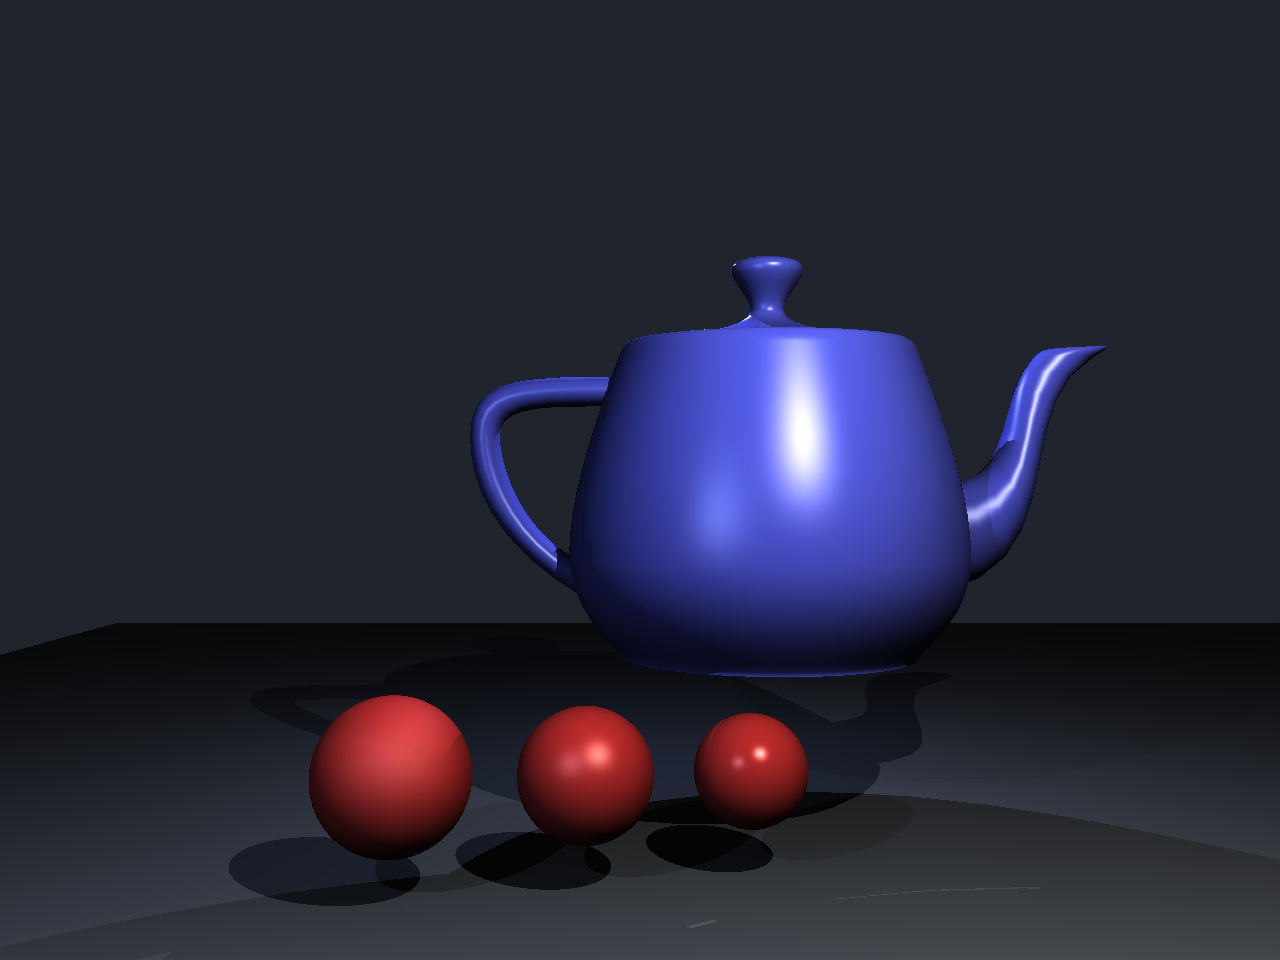
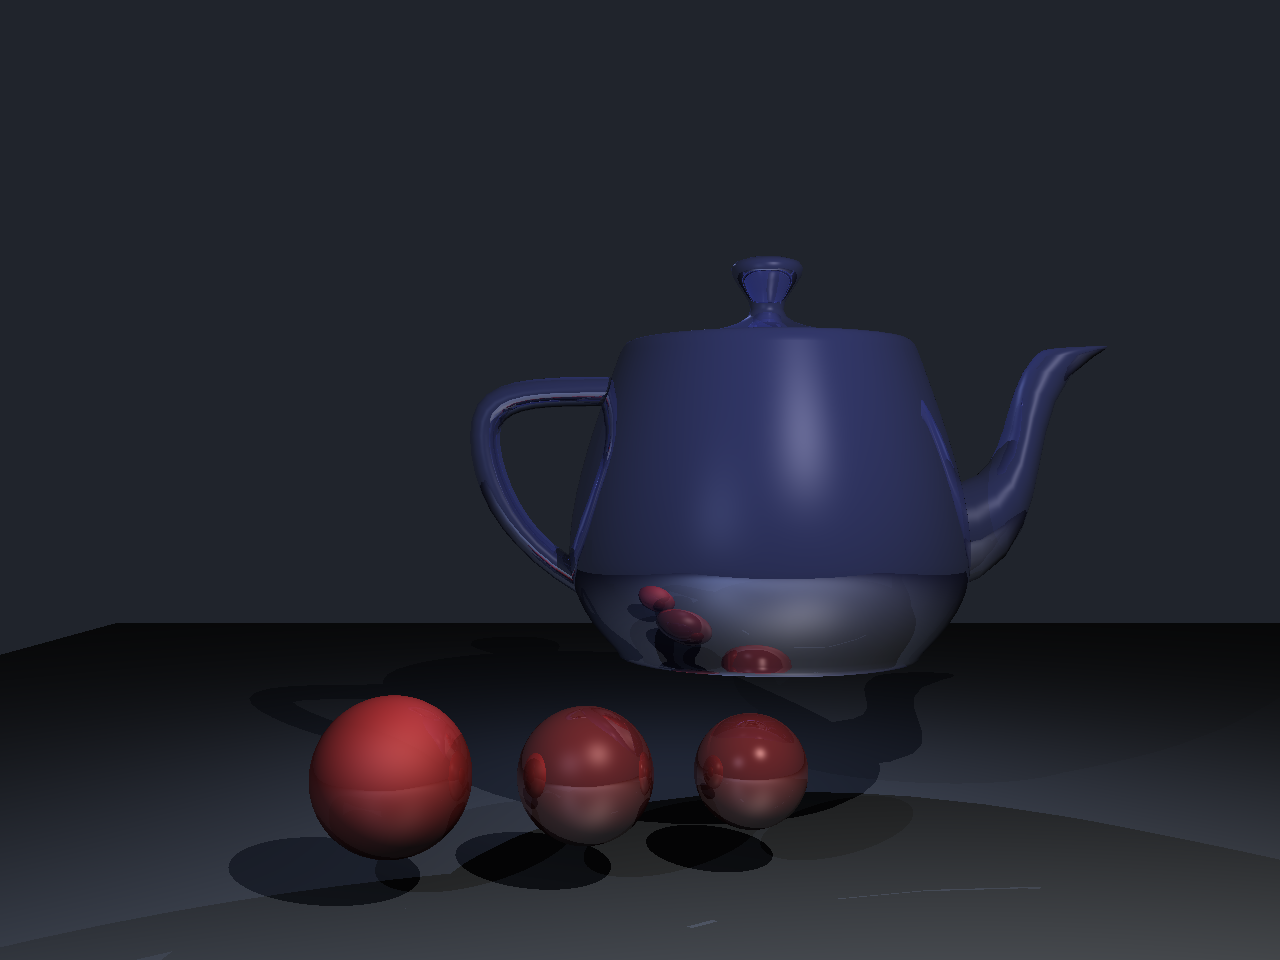
add reflected rays and cast them recursively to blend the new color of the pixel

Changed region(s): [[0.3438, 0.25, 0.875, 0.875], [0.25, 0.7188, 0.375, 0.8438]]

diff --git a/src/up/raytracer/render/Raytracer.java b/src/up/raytracer/render/Raytracer.java
@@ -29,7 +29,7 @@ public class Raytracer{
     }
 
 
-    public BufferedImage render() {
+    public BufferedImage render(int depth) {
         stats.startTimer();
         Camera camera = scene.getCamera();
         List<Object3D> objects = scene.getObjects();
@@ -72,7 +72,7 @@ public class Raytracer{
                for (int y = threadStarty; y < threadEndY; y++) {
                    for (int x = 0; x < width; x++) {
                        Ray ray = camera.getRayForPixel(x, y);
-                       image.setRGB(x, y, trace(ray, near, far, objects, lights, localCounters).getRGB());
+                       image.setRGB(x, y, trace(ray, near, far, objects, lights, localCounters, depth).getRGB());
                    }
                }
                threadCounters[threadIndex][0] = localCounters[0];
@@ -108,7 +108,10 @@ public class Raytracer{
     }
 
     // trace the closest hit in the camera clip range
-    private Color trace(Ray ray, double near, double far, List<Object3D> objects, List<Light> lights, long[] localCounters) {
+    private Color trace(Ray ray, double near, double far, List<Object3D> objects, List<Light> lights, long[] localCounters, int depth) {
+        //if the ray is out of bounces, then stop 
+        if(depth <= 0) return scene.getBackgroundColor();
+
         Intersection closest = null;
 
         for (Object3D obj : objects) {
@@ -125,11 +128,11 @@ public class Raytracer{
         if (closest == null) return scene.getBackgroundColor();
 
         localCounters[1]++;
-        return shade(ray, closest, lights);
+        return shade(ray, closest, lights, depth);
     }
 
     // lambert diffuse with interpolated normals from the hit object
-    private Color shade(Ray ray, Intersection hit, List<Light> lights) {
+    private Color shade(Ray ray, Intersection hit, List<Light> lights, int depth) {
         Material material = hit.getObject().getMaterial(); //object material for color and other properties
 
         Color objectColor = material.getColor(); // actual color of the object
@@ -182,8 +185,10 @@ public class Raytracer{
                 }
             }
 
-
             if (inShadow) continue;
+
+
+
 
             Color  lc = light.getColor();
 
@@ -203,6 +208,23 @@ public class Raytracer{
             g += (lc.getGreen() / 255.0) * specular;
             b += (lc.getBlue() / 255.0) * specular;
         }
+
+        if(material.getReflectivity() > 0){
+
+            Vector3D R = ray.getDirection().subtract(N.scale(2 * ray.getDirection().dot(N))).normalize(); // perfect reflection direction
+            Ray reflectedRay = new Ray(hit.getPosition().add(N.scale(SHADOW_EPSILON)), R); // start reflected ray slightly above surface
+
+            //recursive tracing with new reflected ray
+            Color reflcolor = trace(reflectedRay, scene.getCamera().getNear(), scene.getCamera().getFar(), scene.getObjects(), scene.getLights(), new long[2], depth - 1);
+            double refl = material.getReflectivity();
+            r = (1-refl) * r + refl * (reflcolor.getRed() / 255.0);
+            g = (1-refl) * g + refl * (reflcolor.getGreen() / 255.0);
+            b = (1-refl) * b + refl * (reflcolor.getBlue() / 255.0);
+
+            return new Color(clamp01(r), clamp01(g), clamp01(b));
+        }
+
+
 
 
         return new Color(clamp01(r), clamp01(g), clamp01(b));

diff --git a/src/up/raytracer/Main.java b/src/up/raytracer/Main.java
@@ -27,21 +27,21 @@ public class Main {
         // same hue, different shininess
         scene.addObject(new Sphere(
                 new Vector3D(-1.55, -1.65, 4.7),
-                new Material(new Color(188, 44, 44), 10f, 0.0, 0.15f),
+                new Material(new Color(188, 44, 44), 10f, 0.2, 0.15f),
                 0.50
         ));
         scene.addObject(new Sphere(
                 new Vector3D(-0.35, -1.70, 4.95),
-                new Material(new Color(188, 44, 44), 55f, 0.0, 0.55f),
+                new Material(new Color(188, 44, 44), 55f, 0.5, 0.55f),
                 0.44
         ));
         scene.addObject(new Sphere(
                 new Vector3D(0.74, -1.74, 5.24),
-                new Material(new Color(188, 44, 44), 190f, 0.0, 0.95f),
+                new Material(new Color(188, 44, 44), 190f, 0.5, 0.95f),
                 0.38
         ));
 
-        Material teapotMaterial = new Material(new Color(66, 74, 188), 90f, 0.0, 0.62f);
+        Material teapotMaterial = new Material(new Color(66, 74, 188), 90f, 0.7, 0.62f);
         for (Triangle t : OBJReader.load(
                 "assets/utah_teapot2.obj",
                 teapotMaterial,
@@ -62,6 +62,6 @@ public class Main {
         }
 
         Raytracer raytracer = new Raytracer(scene);
-        raytracer.saveImage(raytracer.render(), "output.png");
+        raytracer.saveImage(raytracer.render(3), "output.png");
     }
 }
